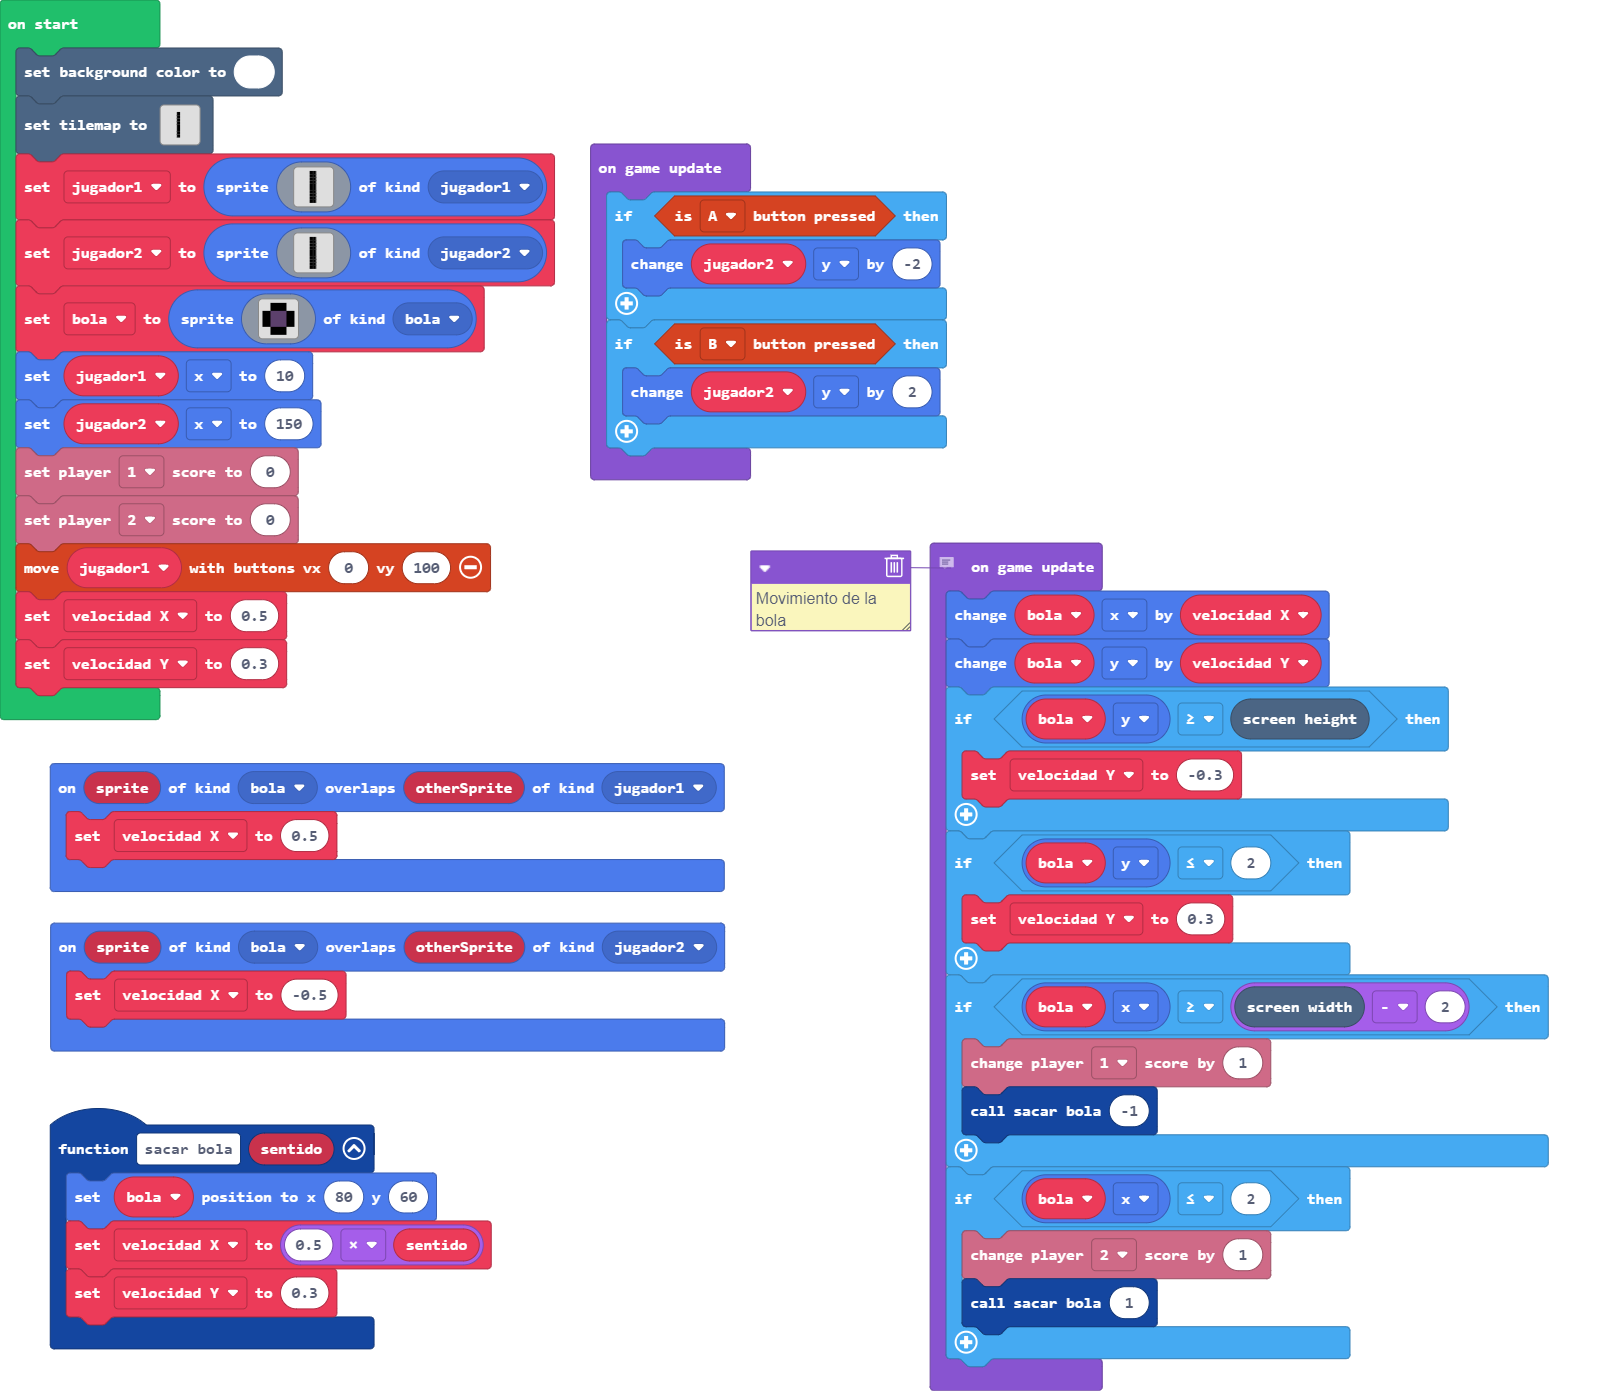
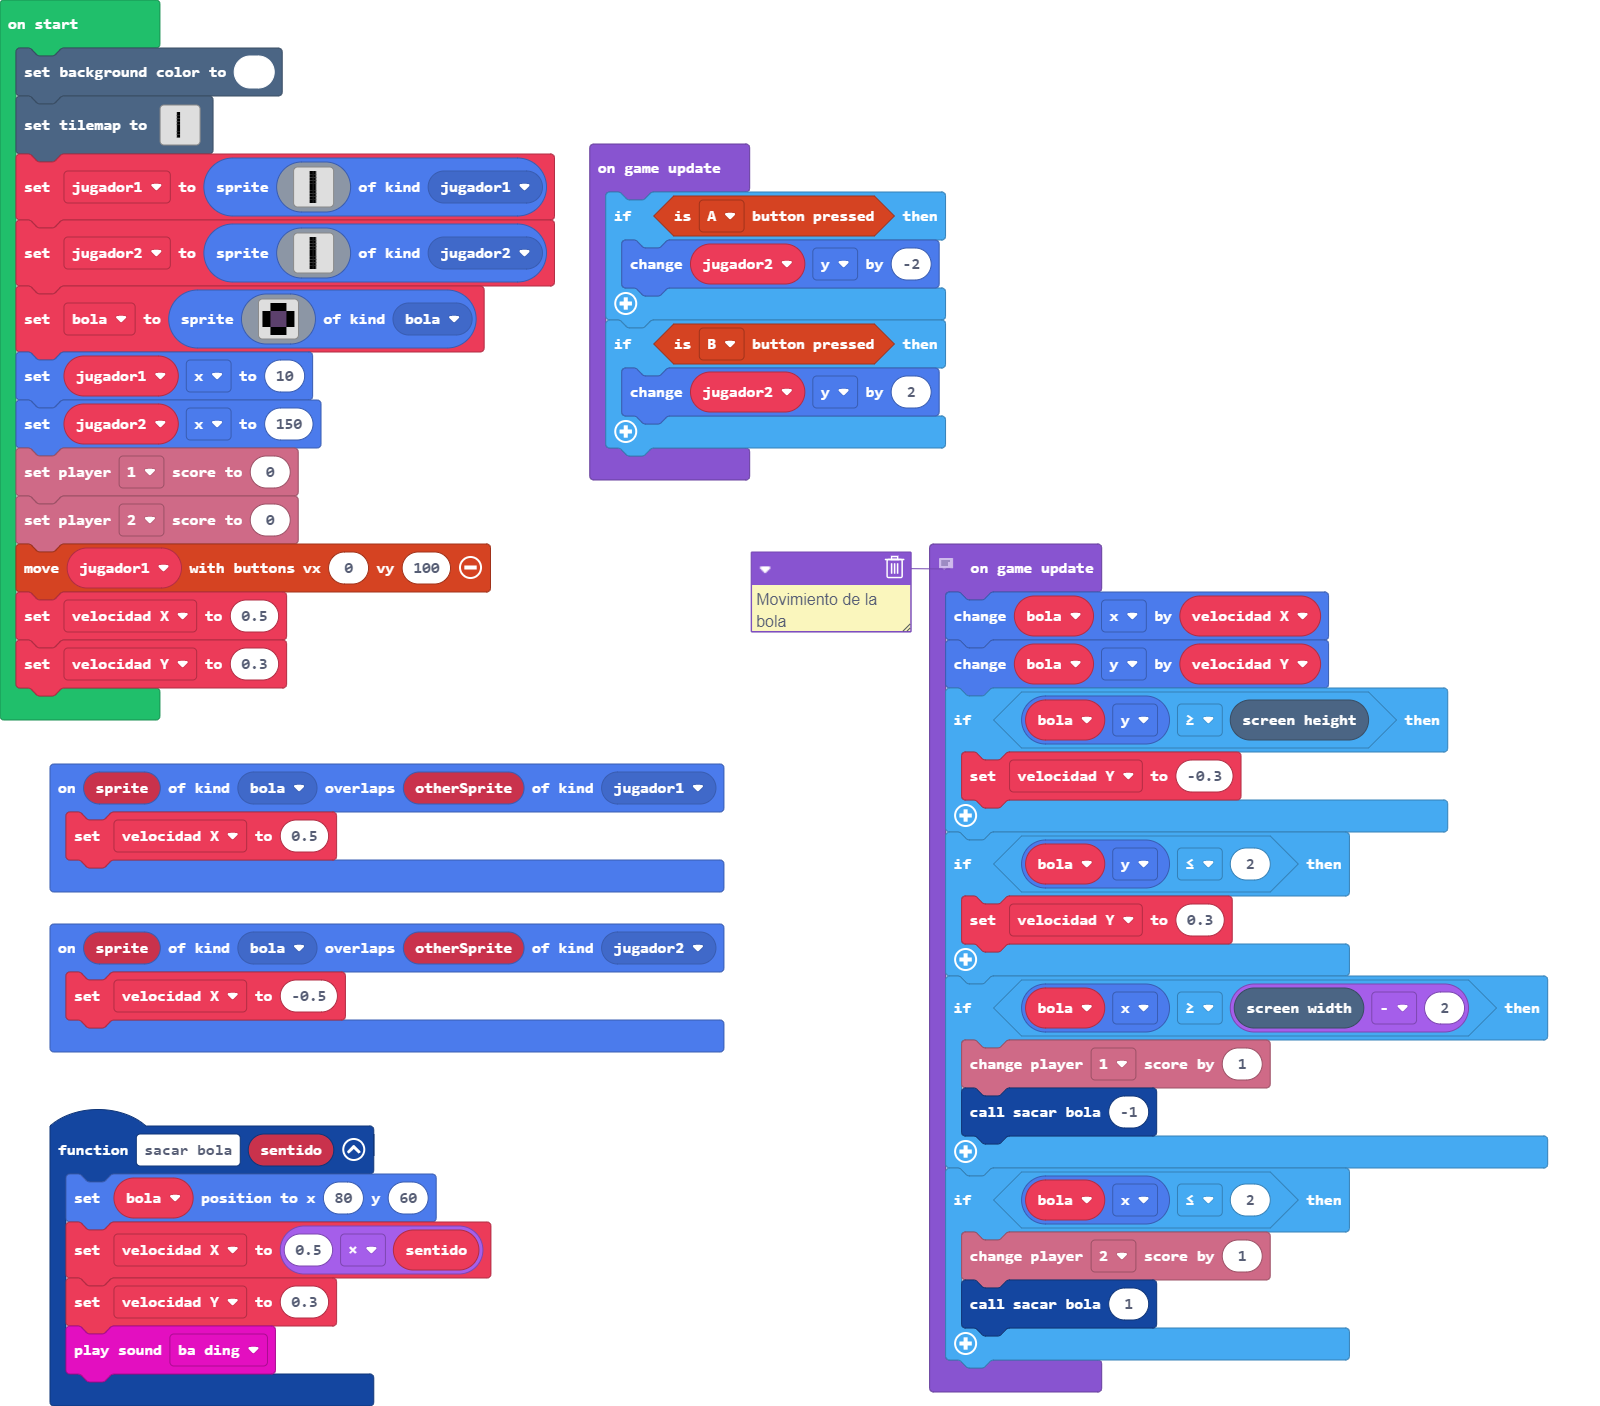
Efecto de sonido al marcar un punto

Changed region(s): [[0.0, 0.0309, 0.4688, 1.0], [0.4688, 0.371, 0.9688, 1.0], [0.375, 0.0927, 0.5938, 0.371]]

diff --git a/main.ts b/main.ts
@@ -13,6 +13,7 @@ function sacar_bola (sentido: number) {
     bola.setPosition(80, 60)
     velocidad_X = 0.5 * sentido
     velocidad_Y = 0.3
+    music.baDing.play()
 }
 let velocidad_Y = 0
 let velocidad_X = 0
